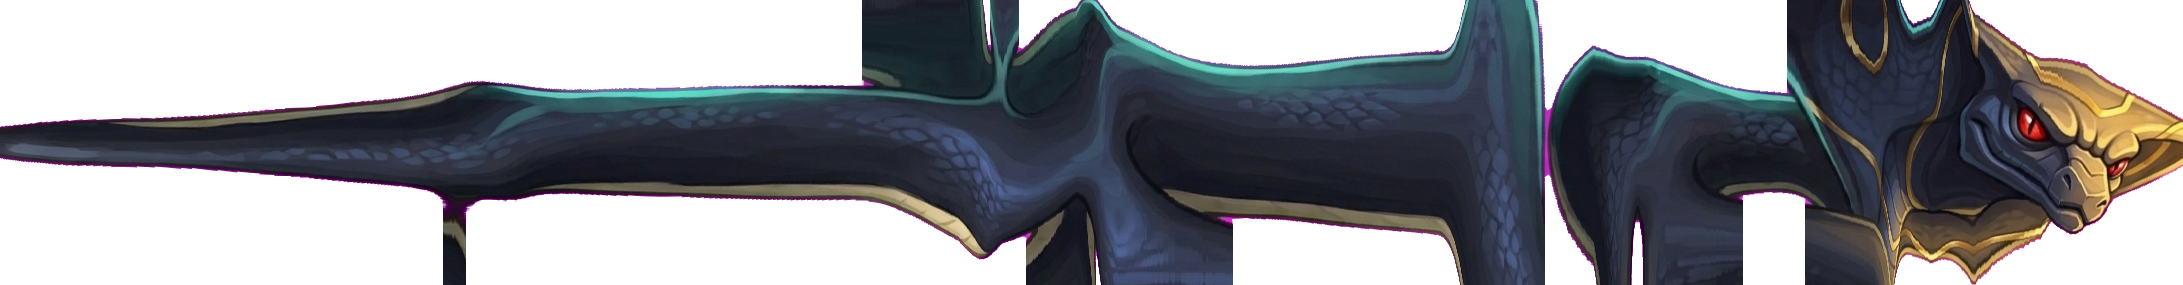
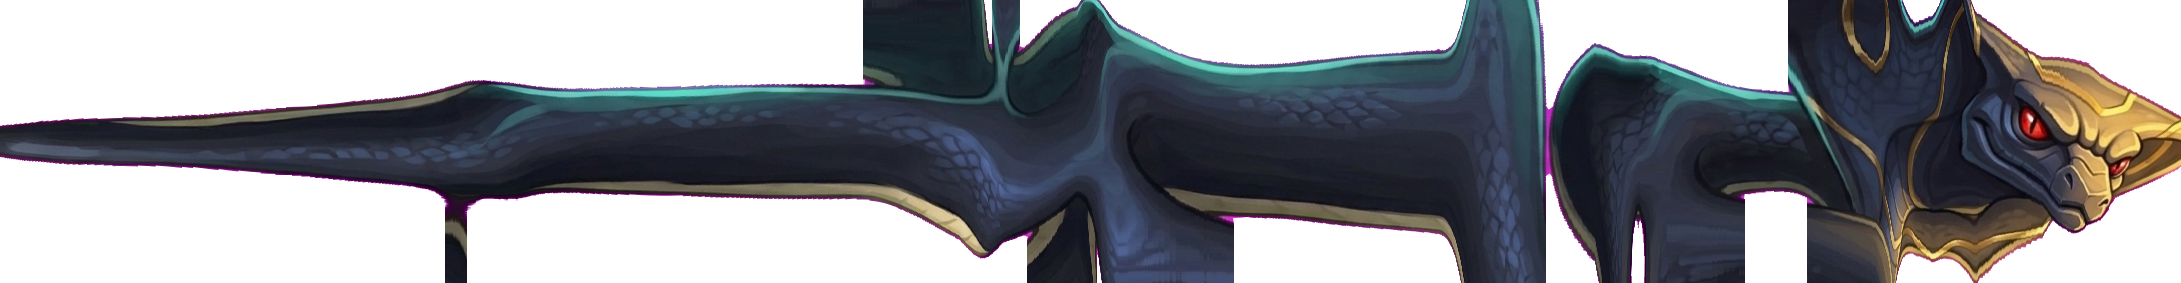
Stop the slicer cropping faces off, and record Maya as finished
Two faults you could see on Maya, both in the cutting rather than the art.

STRAY PIXELS. Four sprites carried detached fragments - Maya's tail alone
had 19,466 stray pixels, Dozer's and Vyra's about 1,450 each. These are
bits of a neighbouring coil that fell inside the crop box. The slicer now
keeps only the largest connected island in each head and tail, and prints
what it dropped so a real mistake still gets noticed.

CUT OFF. Nearly every sprite was clipped on two or three edges. The crop
box was the centreline's medial-axis radius plus a flat 30px - but that
radius is the biggest circle that FITS INSIDE the shape, so a snout, jaw
or brow reaches past it. Now scaled with the animal (1.7x + 70). Maya's
and Nibble's heads went from clipped to clean.

Dozer and Vyra are still clipped. Same root cause as all their other
problems: drawn thick in a tight S, so any box around one part contains
another. Their tail sprites no longer matter - the renderer draws the
body from the continuous strip and only needs head.png.

Maya is the first snake finished by eye, so art/characters.json now
records her: size, idle, strike, head angle and her hand-placed path.
It also records that every snake so far needs headFlipY, which points at
a sign error in my facing measurement rather than at the artwork.

diff --git a/tools/cut_snake.py b/tools/cut_snake.py
@@ -254,9 +254,28 @@ def main():
 
     # --- head & tail from the ORIGINAL curve, undistorted ---
     alpha = clean[..., 3]
-    def cut(i0, i1, pad=30):
+
+    def largest_island(img):
+        """A cut sprite should be ONE piece. Anything detached is a fragment of
+        another part of the snake that happened to fall inside the crop box."""
+        m = img[..., 3] > 24
+        lab, n = ndimage.label(m)
+        if n <= 1:
+            return img, 0
+        sizes = ndimage.sum(m, lab, range(1, n + 1))
+        keep = lab == (int(np.argmax(sizes)) + 1)
+        dropped = int(m.sum() - keep.sum())
+        img = img.copy()
+        img[..., 3] = np.where(keep, img[..., 3], 0)
+        return img, dropped
+
+    def cut(i0, i1, pad=70):
         xs, ys = C[i0:i1, 0], C[i0:i1, 1]
-        rr = r[i0:i1].max() + pad
+        # The medial-axis radius is the biggest circle that FITS INSIDE the
+        # shape, so a snout, jaw or brow reaches further than it. Padding by a
+        # flat 30px cropped the face off nearly every sprite; scale with the
+        # animal instead.
+        rr = r[i0:i1].max() * 1.7 + pad
         x0, y0 = max(0, int(xs.min() - rr)), max(0, int(ys.min() - rr))
         x1, y1 = min(alpha.shape[1], int(xs.max() + rr)), min(alpha.shape[0], int(ys.max() + rr))
         sub = alpha[y0:y1, x0:x1] > 10
@@ -268,6 +287,10 @@ def main():
     hi0, ti1 = int(a.head_frac * N), int(a.tail_frac * N)
     head, hx, hy = cut(hi0, N)
     tail, tx, ty = cut(0, ti1)
+    head, hdrop = largest_island(head)
+    tail, tdrop = largest_island(tail)
+    if hdrop or tdrop:
+        print(f'  cleaned stray fragments: head {hdrop}px, tail {tdrop}px')
     Image.fromarray(head, 'RGBA').save(p('head.png'))
     Image.fromarray(tail, 'RGBA').save(p('tail.png'))
 
